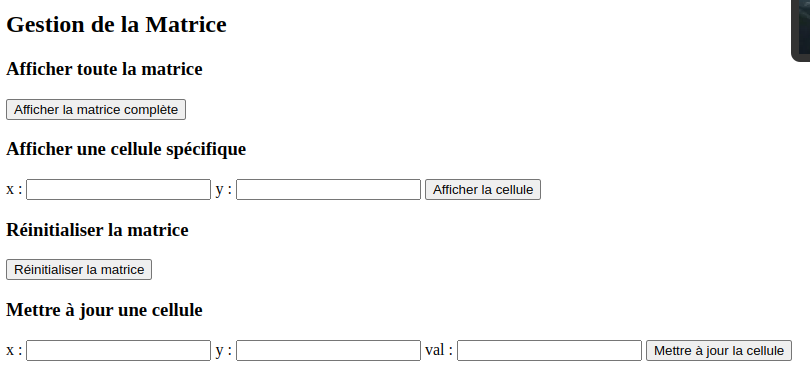
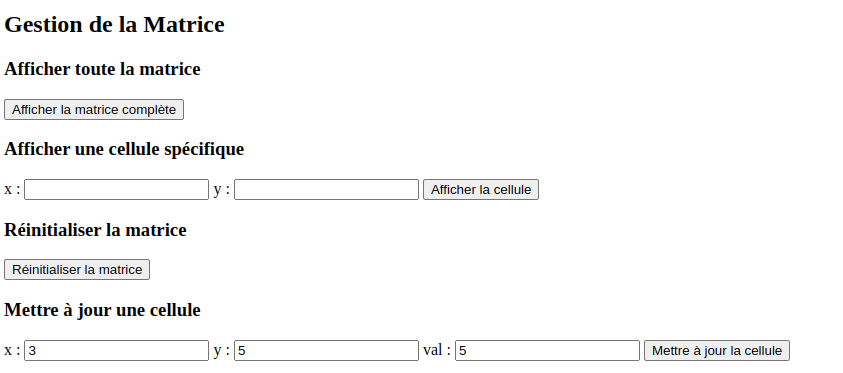
fix: used jsp instead of print

diff --git a/readme.md b/readme.md
@@ -74,19 +74,28 @@ Ici le code pour le servlet:
 
 La méthode `init` initialise une matrice 10x10 (`matrice`) remplie de zéros lorsque le servlet démarre, la préparant pour des modifications et des consultations ultérieures.
 
-![image2](images/EX3-SERVLET-GET.jpg)
+![image2](images/EX3-SERVLET-GET.png)
 
 *MatriceServlet.java*
 
-La méthode `doGet` gère les requêtes GET en affichant soit la matrice entière sous forme de table HTML, soit, si les paramètres `x` et `y` sont fournis, la valeur à des coordonnées spécifiées. Elle inclut une gestion des erreurs pour les indices hors limites et les paramètres invalides.
+La méthode `doGet` gère les requêtes GET en transmettant la matrice entière ou une valeur de cellule spécifique à une page JSP (`affichageMatrice.jsp`). Si les paramètres `x` et `y` sont fournis, elle affiche la valeur à la position demandée avec une gestion des erreurs pour les coordonnées hors limites et les paramètres non valides.
 
 
-![image2](images/EX3-SERVLET-POST.jpg)
+![image2](images/EX3-SERVLET-POST.png)
 
 *MatriceServlet.java*
 
 
-La méthode `doPost` gère les requêtes POST pour modifier les valeurs de la matrice. Si aucun paramètre n'est fourni, elle réinitialise la matrice à zéro ; sinon, elle met à jour la cellule spécifiée avec une nouvelle valeur si les coordonnées et la valeur sont valides.
+La méthode `doPost` gère les requêtes POST pour modifier les valeurs de la matrice. Si aucun paramètre n'est fourni, elle réinitialise toute la matrice à zéro. Sinon, elle met à jour la cellule spécifiée si les coordonnées et la valeur sont valides. Un message de confirmation ou d'erreur est transmis à la page JSP pour affichage.
+
+![image2](images/EX3-JSP.png)
+
+*affichageMatrice.jsp*
+
+La page JSP `affichageMatrice.jsp` affiche la matrice entière sous forme de tableau si elle est fournie, ou bien la valeur d'une cellule spécifique et des messages d'information ou d'erreur provenant des opérations effectuées dans `doGet` et `doPost` de `MatriceServlet`.
+
+
+
 
 Resultats:
 
